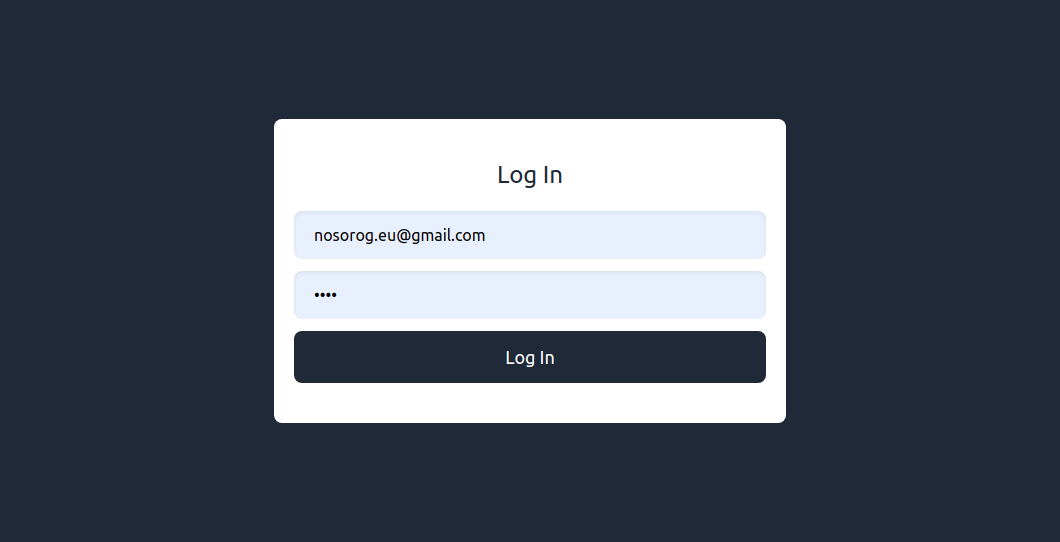
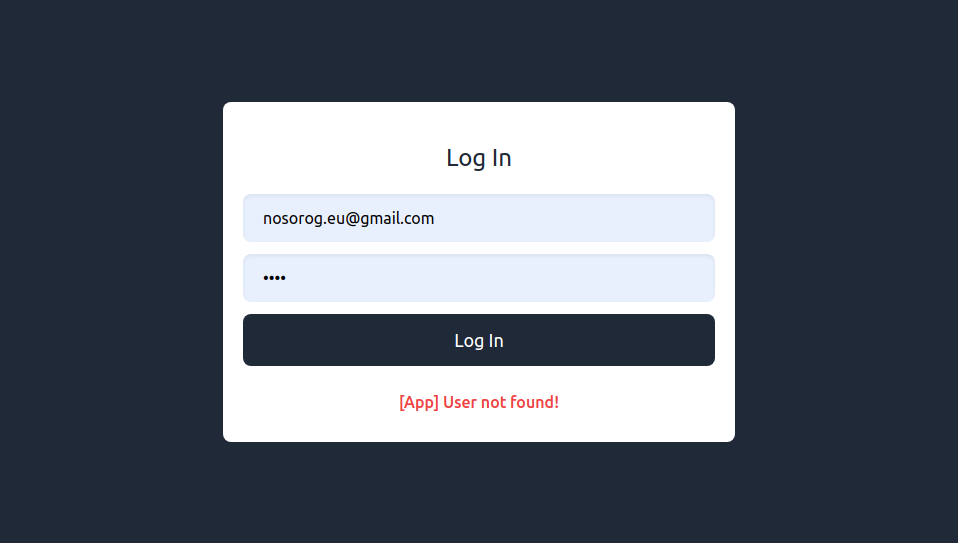
02. Frontend | 15.8 - 15.9 Login Mutation

Changed region(s): [[0.2119, 0.1771, 0.7871, 0.8266]]

diff --git a/app/frontend/src/pages/login.tsx b/app/frontend/src/pages/login.tsx
@@ -31,14 +31,14 @@ export const Login = () => {
 
   const onCompleted = (data: loginMutation) => {
     const {
-      login: { error, ok, token },
+      login: { ok, token },
     } = data;
     if (ok) {
       console.log(token);
     }
   };
 
-  const [loginMutation, { data: loginMutationResult }] = useMutation<
+  const [loginMutation, { data: loginMutationResult, loading }] = useMutation<
     loginMutation,
     loginMutationVariables
   >(LOGIN_MUTATION, {
@@ -46,10 +46,12 @@ export const Login = () => {
   });
 
   const onSubmit = () => {
-    const { email, password } = getValues();
-    loginMutation({
-      variables: { loginInput: { email, password } },
-    });
+    if (!loading) {
+      const { email, password } = getValues();
+      loginMutation({
+        variables: { loginInput: { email, password } },
+      });
+    }
   };
 
   return (
@@ -94,7 +96,9 @@ export const Login = () => {
           {errors.password?.type === 'minLength' && (
             <FormError errorMessage="Password must be more than 4 chars." />
           )}
-          <button className="btn mb-3">Log In</button>
+          <button className="btn mb-3">
+            {loading ? 'Loading...' : 'Log In'}
+          </button>
           {loginMutationResult?.login.error && (
             <FormError errorMessage={loginMutationResult?.login.error} />
           )}

diff --git a/Development-frontend.md b/Development-frontend.md
@@ -86,7 +86,7 @@ https://react-hook-form.com/
 
 <br/>
 
-### 15.8 - Login Mutation
+### 15.8 - 15.9 Login Mutation
 
 <br/>
 
